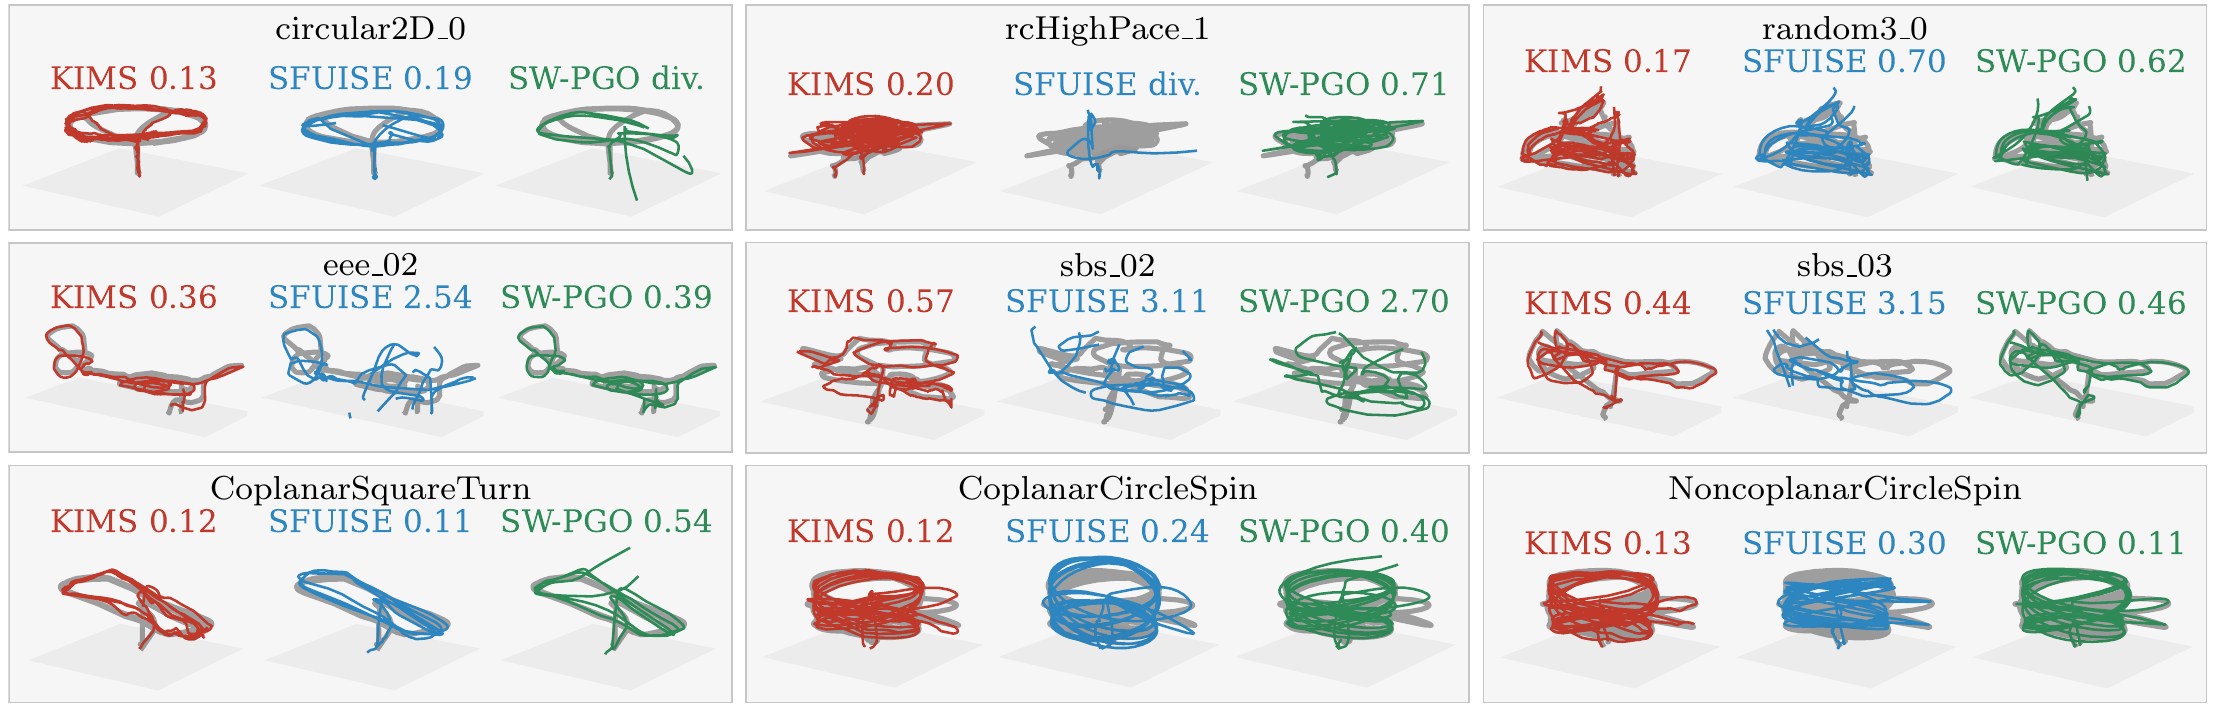
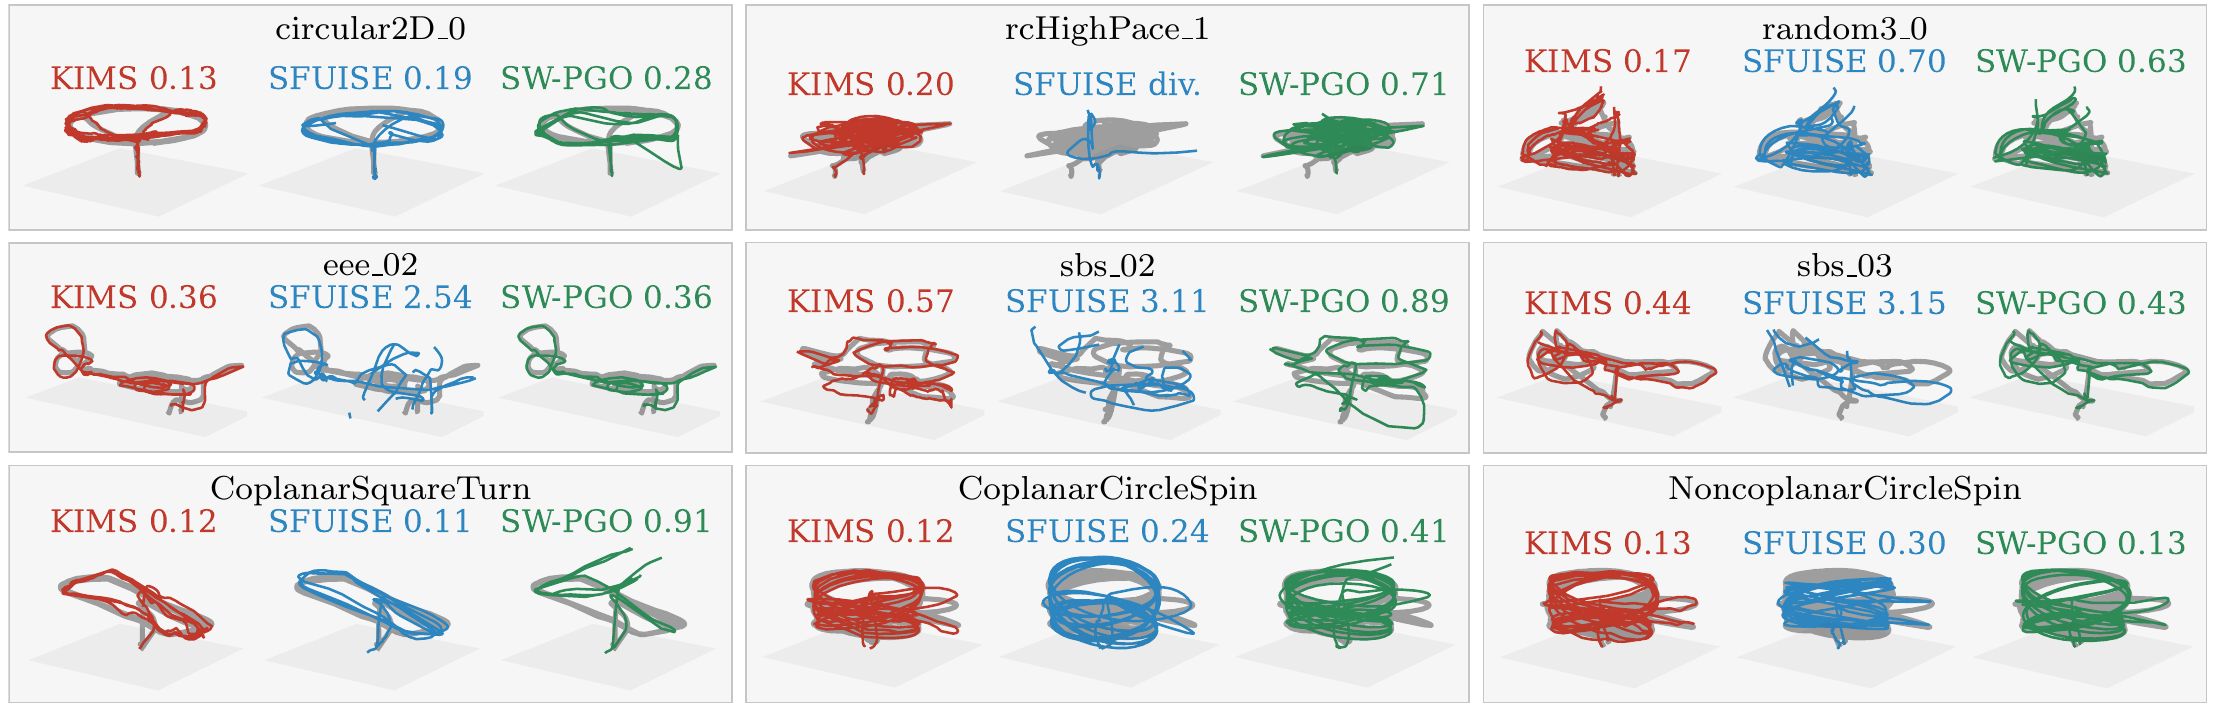
update

diff --git a/docs/index.html b/docs/index.html
@@ -208,6 +208,7 @@
       <li>SFUISE runs with its authors' published configuration from the KIMS start pose.</li>
       <li>Filters: our runs of the code released with MILUV (EKF + laser height) and UTIL (ESKF).</li>
       <li>KIMS on MILUV, NTU VIRAL and IULUI: mean over ten seeds.</li>
+      <li>Per seed at N = 2048: a run exceeds 1 m on eee_03 in 10 of 10 seeds and on nya_02 in 8 of 10, where the other 2 leave the mirror branch, and never on the other 31 flights. Seed spread is below 2 mm except on nya_02, nya_03 and sbs_02.</li>
     </ul>
   </details>
 </section>
@@ -230,7 +231,7 @@
     <tr><td>SFUISE</td><td>10 s</td><td>0.704</td><td>2.537</td><td>0.125</td><td>0.235</td></tr>
     <tr><td>SFUISE</td><td>2&ndash;3 s</td><td class="bad">div.</td><td class="bad">div.</td><td class="bad">div.</td><td class="bad">div.</td></tr>
   </table></div>
-  <p class="note">Single runs, seed 1234, N = 8192. UTIL: two flights per anchor constellation. div.: every flight diverges.
+  <p class="note">Single runs, seed 1234, N = 2048. UTIL: two flights per anchor constellation. div.: every flight diverges.
      IMU alone drifts 0.1&ndash;0.5 m in 2 s and 3&ndash;16 m in 10 s. Other seeds change the RMSE by at most 2 mm, except on two NTU VIRAL flights.</p>
 </section>
 
@@ -239,8 +240,10 @@
   <div class="two">
     <div class="fig"><img src="assets/fig_lm_mirror.png" alt="Height of KIMS and the matched LM on the four flights where they differ"></div>
     <p>The same window objective solved by <b>Levenberg&ndash;Marquardt</b> is never better than KIMS by more than 1 cm,
-       and worse on <b>14 of 104</b> flights. All 14 pass close to the anchor plane, where the posterior splits in
-       two and a mode follows one branch.</p>
+       and worse on <b>15 of 104</b> flights. All 15 pass close to the anchor plane, where the posterior splits in
+       two and a mode follows one branch. Inflating the carried covariance four times changes nothing. Restarting LM
+       from eight points frees it on CoplanarSquareTurn but not on CoplanarCircleSpin, where the mirrored branch holds
+       the lower window objective from every start, while the weighted mean of KIMS follows the mass of the branches.</p>
   </div>
 </section>
 
@@ -248,8 +251,8 @@
   <h2>Speed</h2>
   <div class="two">
     <div class="fig"><img src="assets/fig_nsweep_jetson.png" alt="Jetson Orin NX solve time and RMSE against the number of samples"></div>
-    <p><b>Desktop</b> RTX 5070 Ti: 4&ndash;9 ms mean per UWB epoch at N = 8192.<br>
-       <b>Onboard</b> Jetson Orin NX: 6&ndash;10 ms median at N = 1280&ndash;2560, inside the 10 ms epoch of IULUI, with the RMSE of N = 8192.</p>
+    <p><b>Desktop</b> RTX 5070 Ti at N = 2048: 2.2 ms mean per UWB epoch on NTU VIRAL, 3.6 on IULUI, 13 on UTIL and 19 on MILUV, where the smaller N triggers more tempering passes.<br>
+       <b>Onboard</b> Jetson Orin NX: 8.0 ms median at N = 2048, the paper setting, inside the 10 ms epoch of IULUI.</p>
   </div>
 </section>
 

diff --git a/README.md b/README.md
@@ -128,7 +128,7 @@ Any setting can be overridden:
 
 ```bash
 python3 scripts/run.py kims ntu sbs_02 seed:=7 --label seed7
-python3 scripts/run.py kims miluv default_1_random3_0 N:=8192 --label n8192
+python3 scripts/run.py kims miluv default_1_random3_0 N:=2048 --label n2048
 python3 scripts/run.py swpgo iului SquareTurn robust_delta:=0 --label swpgo_norob
 ```
 
